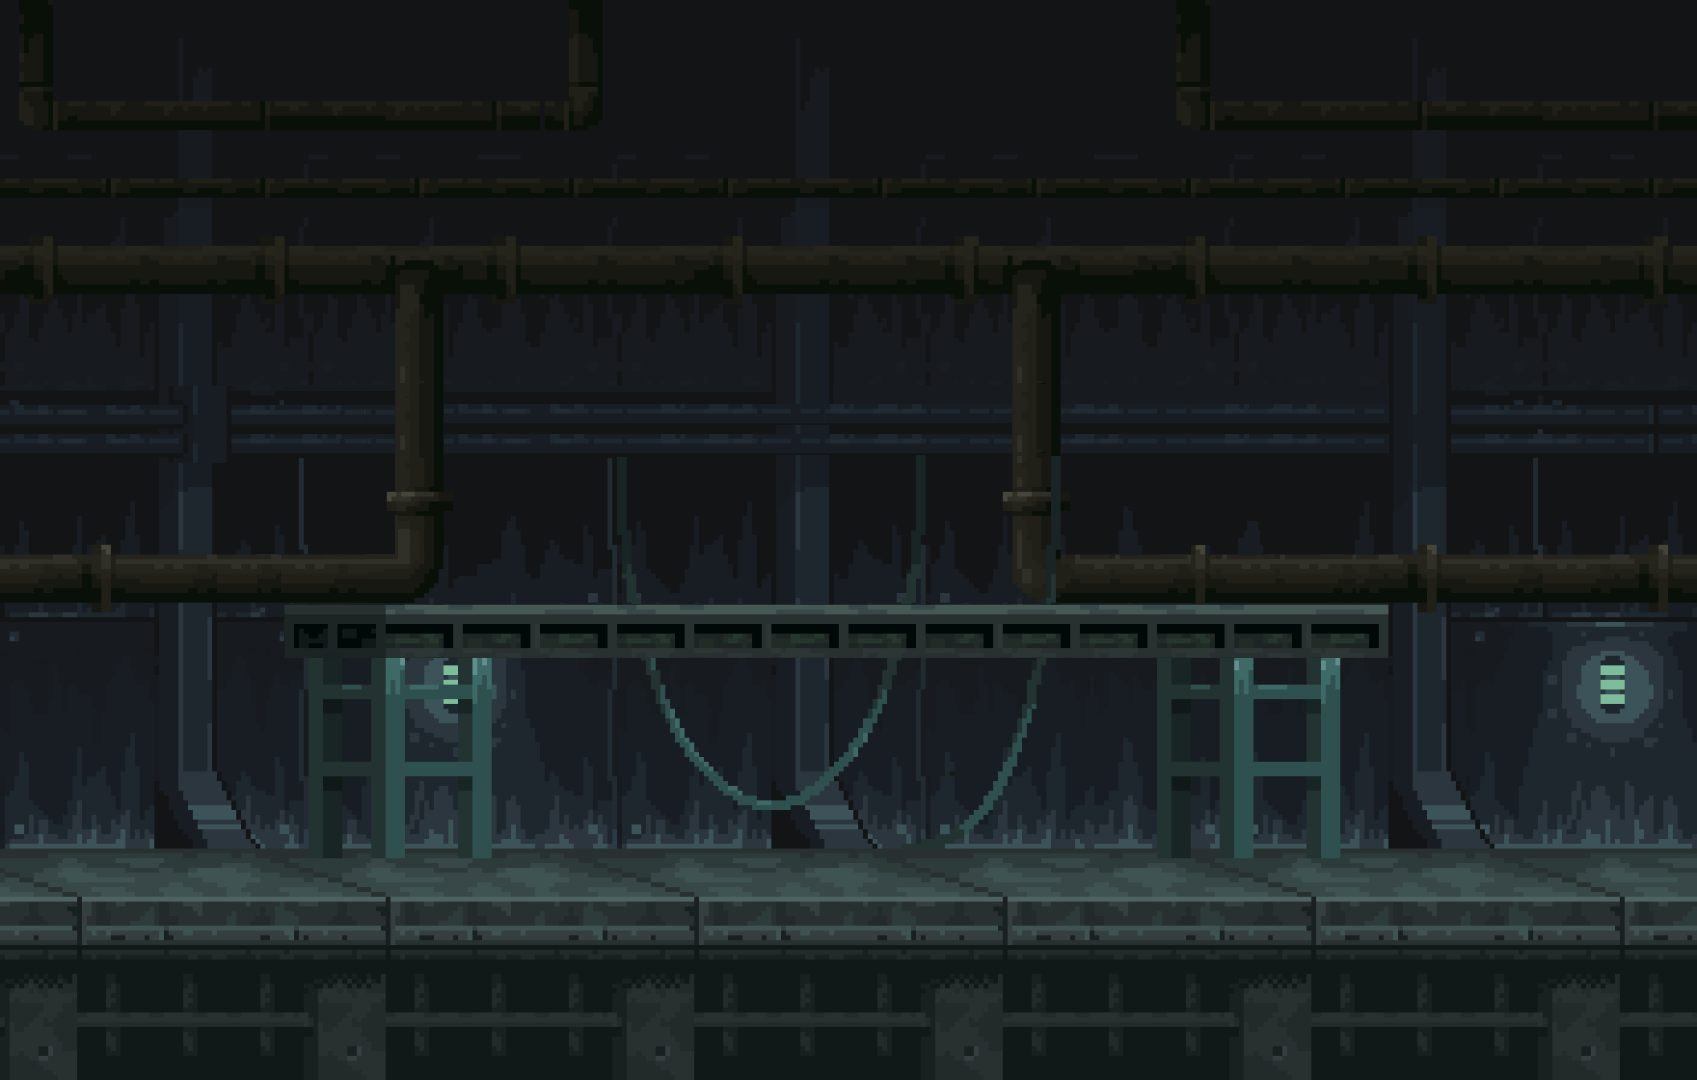
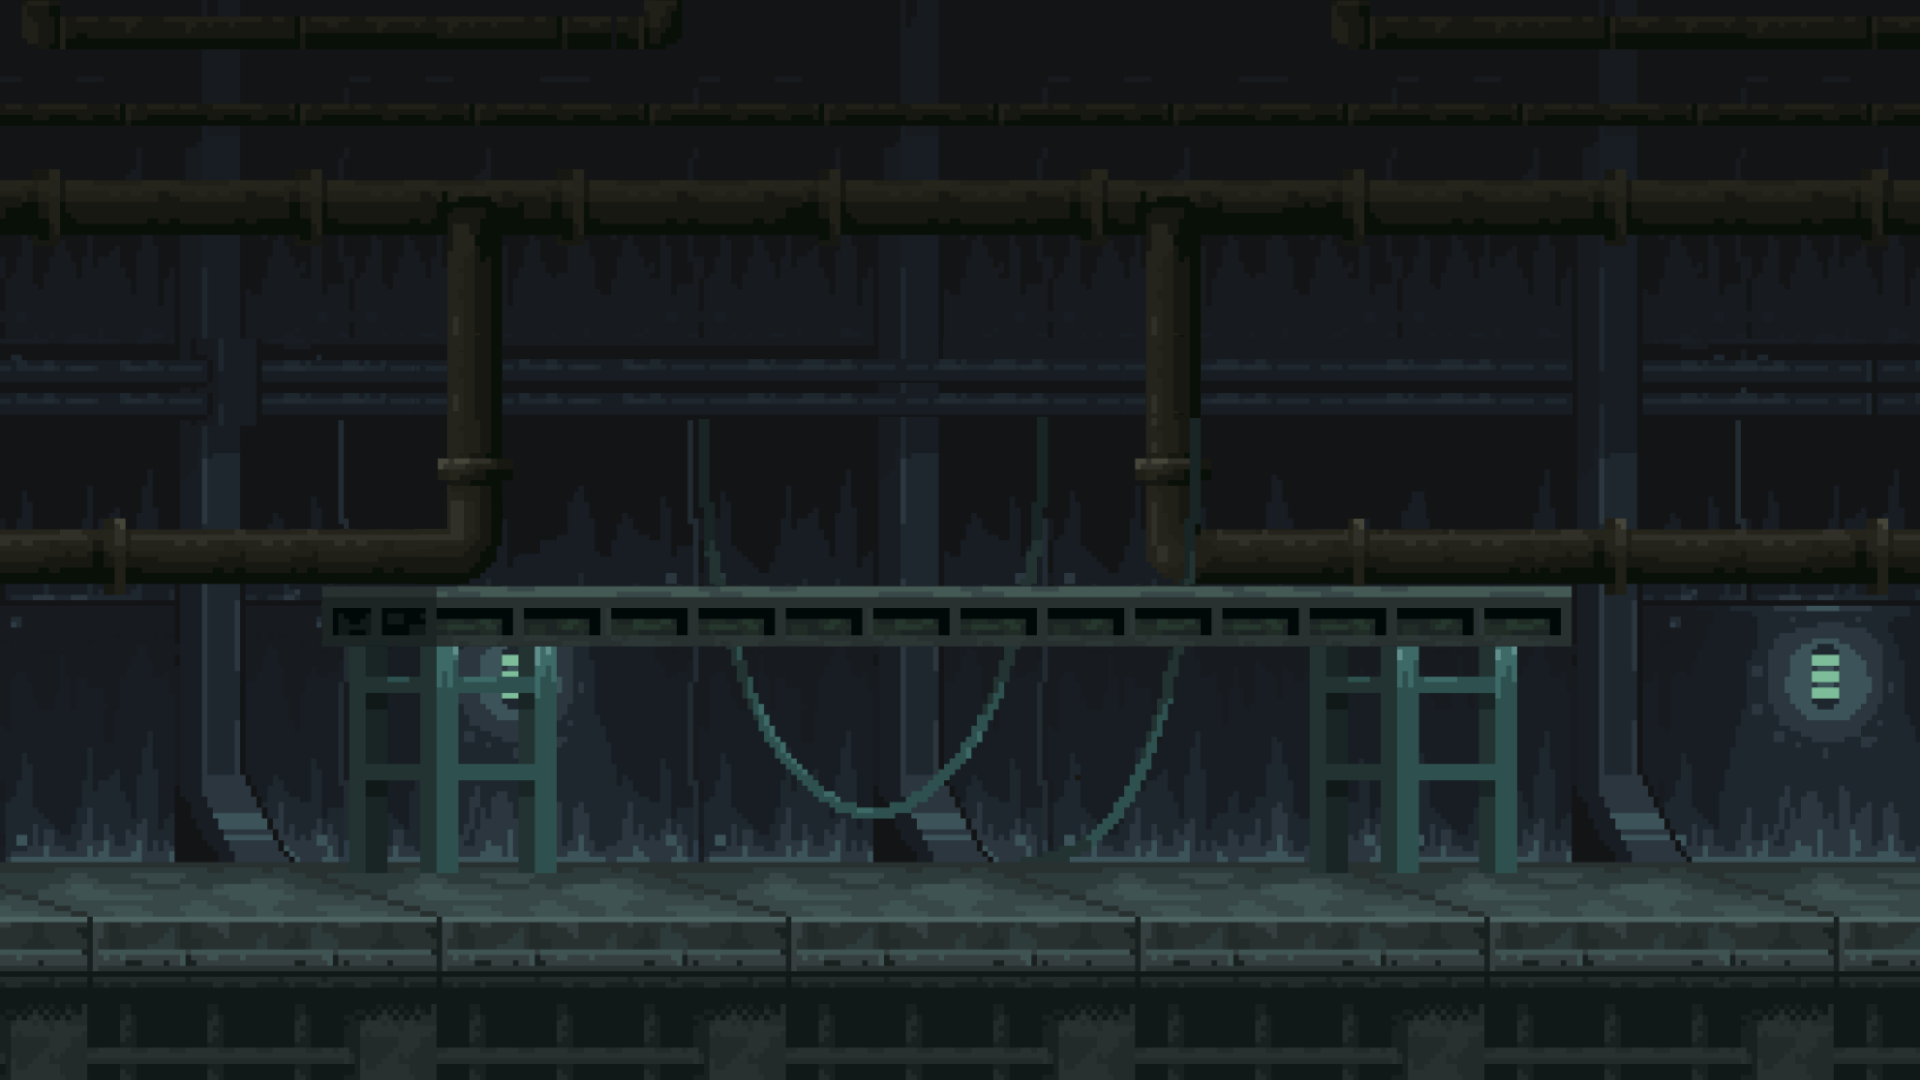
3 éme map jouable

diff --git a/main.py b/main.py
@@ -79,14 +79,21 @@ map_1_preview = pygame.transform.scale(map_1, (384, 216))
 map_2 = pygame.image.load(curdir + "/images/maps/map_desert.png").convert()
 map_2_preview = pygame.transform.scale(map_2, (384, 216))
 
+map_3 = pygame.image.load(curdir + "/images/maps/hangar.png").convert()
+map_3_preview = pygame.transform.scale(map_3, (384, 216))
+
 pos_map_1 = map_1.get_rect()
 pos_map_2 = map_2.get_rect()
+pos_map_3 = map_3.get_rect()
 pos_map_1_preview = map_1_preview.get_rect()
 pos_map_2_preview = map_2_preview.get_rect()
+pos_map_3_preview = map_3_preview.get_rect()
 pos_map_1_preview.x = 100
 pos_map_1_preview.y = 300
 pos_map_2_preview.x = 550
 pos_map_2_preview.y = 300
+pos_map_3_preview.x = 1000
+pos_map_3_preview.y = 300
 
 retour = pygame.image.load(curdir + "/images/retour_button.png").convert_alpha()
 retour = pygame.transform.scale(retour, (122, 40))
@@ -105,6 +112,12 @@ map2_button = pygame.transform.scale(map2_button, (384, 128))
 pos_map2_button = map2_button.get_rect()
 pos_map2_button.x = 550
 pos_map2_button.y = 550
+
+map3_button = pygame.image.load(curdir + "/images/map3_button.png").convert_alpha()
+map3_button = pygame.transform.scale(map3_button, (384, 128))
+pos_map3_button = map3_button.get_rect()
+pos_map3_button.x = 1000
+pos_map3_button.y = 550
 
 menu = pygame.image.load(curdir + "/images/menu_button.png").convert_alpha()
 pos_menu = menu.get_rect()
@@ -343,7 +356,8 @@ while on:
                     if event.pos[0] >= pos_map1_button.x and event.pos[0] <= pos_map1_button.x + map1_button.get_width() and event.pos[1] >= pos_map1_button.y and event.pos[1] <= pos_map1_button.y + map1_button.get_height():
                         menu_map = False
                         game = True
-                        
+                        UP_MOVE = 30
+                        COEF_UP = 1.1
                         choice_map = 1
                         count_bloc = 3
                         bloc_1 = pygame.Rect(521, 537, 260, 58)
@@ -359,6 +373,8 @@ while on:
                     if event.pos[0] >= pos_map2_button.x and event.pos[0] <= pos_map2_button.x + map2_button.get_width() and event.pos[1] >= pos_map2_button.y and event.pos[1] <= pos_map2_button.y + map2_button.get_height():
                         menu_map = False
                         game = True
+                        UP_MOVE = 30
+                        COEF_UP = 1.1
                         choice_map = 2
                         count_bloc = 5
                         bloc_1 = pygame.Rect(104, 649, 1718, 200)
@@ -372,11 +388,28 @@ while on:
                         pos_j2.x = int((1850 / 1920) * width)
                         pos_j2.y = int(bloc_base.y-((j2.get_height() / 1080) * height))
                         break
+
+                    if event.pos[0] >= pos_map3_button.x and event.pos[0] <= pos_map3_button.x + map3_button.get_width() and event.pos[1] >= pos_map3_button.y and event.pos[1] <= pos_map3_button.y + map3_button.get_height():
+                        menu_map = False
+                        game = True
+                        UP_MOVE = 30
+                        COEF_UP = 1.08
+                        choice_map = 3
+                        count_bloc = 1
+                        bloc_1 = pygame.Rect(321, 587, 1251, 60)
+                        bloc_base = pygame.Rect(0, 884, 1920, 300)
+                        pos_j1.x = int((100 / 1920) * width)
+                        pos_j1.y = int(bloc_base.y-((j1.get_height() / 1080) * height))
+                        pos_j2.x = int((1820 / 1920) * width)
+                        pos_j2.y = int(bloc_base.y-((j2.get_height() / 1080) * height))
+                        break
         screen.blit(image_wall, (BACK_X, BACK_Y))
         screen.blit(map_1_preview, pos_map_1_preview)
         screen.blit(map_2_preview, pos_map_2_preview)
+        screen.blit(map_3_preview, pos_map_3_preview)
         screen.blit(map1_button, pos_map1_button)
         screen.blit(map2_button, pos_map2_button)
+        screen.blit(map3_button, pos_map3_button)
         pygame.display.flip()
     while game:
         
@@ -760,6 +793,8 @@ while on:
             screen.blit(map_1, pos_map_1)
         if choice_map == 2:
             screen.blit(map_2, pos_map_2)
+        if choice_map == 3:
+            screen.blit(map_3, pos_map_3)
 
 
 
